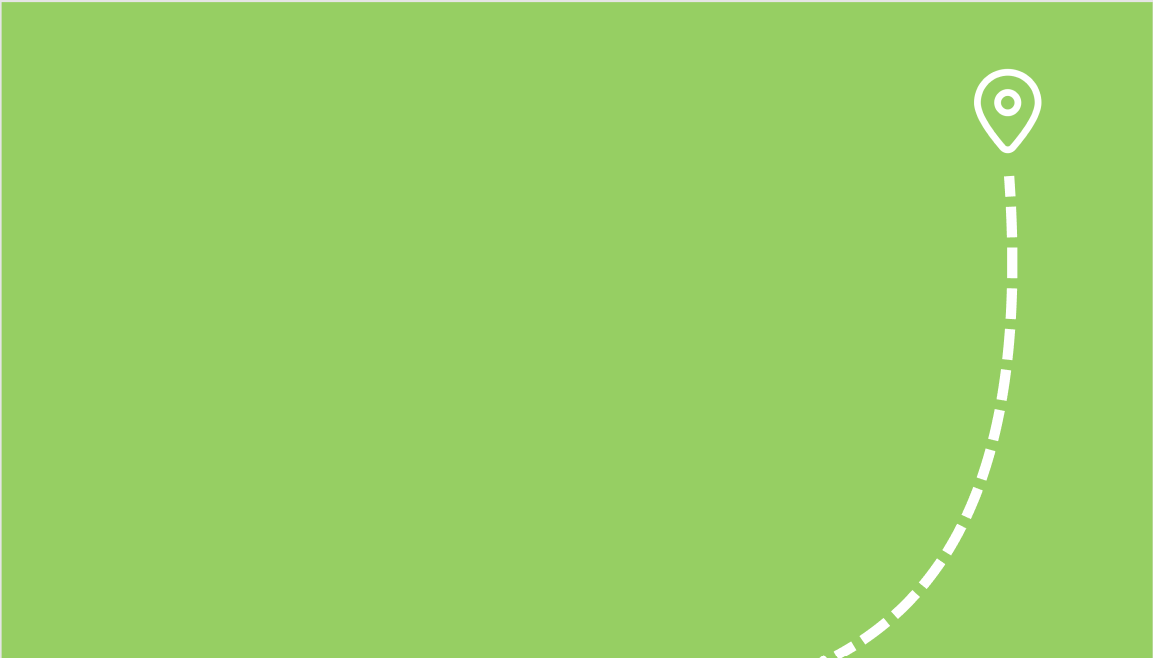
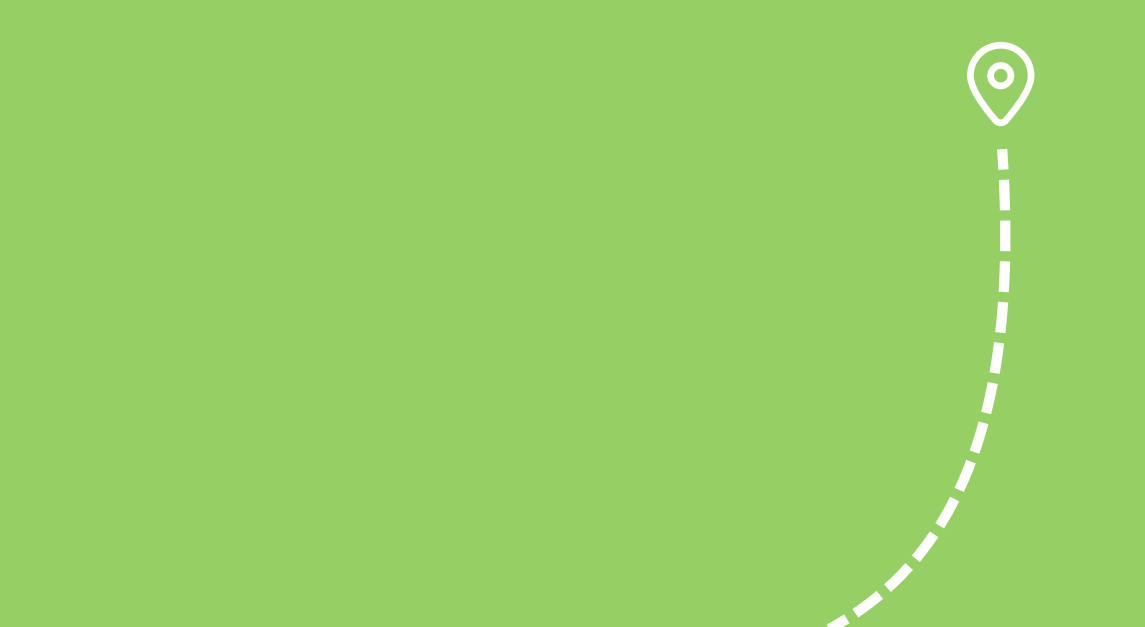
added code

diff --git a/ecomission/calculator/templates/calculator/index.html b/ecomission/calculator/templates/calculator/index.html
@@ -10,17 +10,26 @@
 <body>
     <div class="container">
         <section class="first">
-            <header>
-                <h1>WELCOME TO</h1>
-                <img src = "..\..\static\calculator\images\logo.png" alt = "e(co)mission logo">
-            </header>
-            <p>HOW DO YOU PLAN ON TRAVELLING TODAY?</p>
-            <div class="btns">
-                <button class="btn btn-car">
-                    <img src="..\..\static\calculator\images\car.png"/> 
-                    <img src="..\..\static\calculator\images\plane.png"/> 
-                </button>
+            <div class="col-sm">
+                <div class="row">                
+                    <h1>WELCOME TO</h1>
+                    <p style = "text-align:center"><img src = "..\..\static\calculator\images\logo.png" alt = "e(co)mission logo" class = "logoimage"></p>                
+                </div>
+                <div class="row">
+                <p>HOW DO YOU PLAN ON TRAVELLING TODAY?</p>
+                </div>
+                <div class="row">
+                    <a href = "/ecomission/calculator/templates/calculator/car_details.html">
+                        <p style = "text-align:center;">
+                        <img src="..\..\static\calculator\images\car.png" class = "car"/> 
+                        
+                        </a>
+                        <img src="..\..\static\calculator\images\plane.png"/> 
+                        <p>Flight Calculation Coming Soon!</p>
+                    </p>
+                    </button>
 
+                </div>
             </div>
 
         </section>          
@@ -29,19 +38,45 @@
 </html>
 
 <style>
-    body{
+    @import url('https://fonts.googleapis.com/css2?family=Lato:wght@700&display=swap');
+
+    body, html{
         background: #96CF63;  
+        font-family: Lato;
+        height: 100%
+    }
+    .car{
+        opacity:1;
+    }
+    .car:hover .overlay {
+        opacity: 0.5;
     }
 
-    .bg {
-        background-image: url("..\..\static\calculator\images\1.png");
+    .logoimage{
+        height: 149.5px;
+        width: 650px;
+    }
+
+    .first {
+        background-image: url("/ecomission/calculator/static/calculator/images/1.png");
+        background-repeat: no-repeat;
+        background-size: 110%;
     }
 
     h1{
         color: white;
+        text-align: center;
+        font-size: 450%;
+        margin: 7rem 0 0;
     }
 
     p{
         color: white;
+        text-align: center;
+        font-size: 250%;
+    }
+
+    img{
+        width: 15%;
     }
 </style>

diff --git a/ecomission/calculator/templates/calculator/car_details.html b/ecomission/calculator/templates/calculator/car_details.html
@@ -9,21 +9,29 @@
 </head>
 <body>
     <div class="bg">
+        <ul class="nav navbar-nav navbar-right">
+            <li><a href="/ecomission/calculator/templates/calculator/about.html"></span>About</a></li>
+            <li><img src = "..\..\static\calculator\images\logo.png" alt = "e(co)mission logo">
+            </li>
+        </ul>
         <section class="secondcar">
-            <img src = "..\..\static\calculator\images\logo.png" alt = "e(co)mission logo">
+            <div>
+                <h2>ENTER YOUR POSTAL CODE</h2>
+            </div>
             <div class="form-container">
                 <form action="">
                     <div class="form-left">
-                        <label for="from">From:</label>
-                        <input type="text" name="from" >
-                        <label for="to">To:</label>
-                        <input type="text" name="to" >
-                        <input type="button" value="Next" class="btn btn-info">
+                        <p>
+                            <label for="from">From:</label>
+                            <input type="text" name="from" >
+                       <br>
+                            <label for="to">To:</label>
+                            <input type="text" name="to" >
+                        </p>
+                        <p style = "text-align: center;">
+                        <input type="button" value="Submit" class="btn-lg btn-info"></p>
                     </div>
                 </form>
-            </div>
-            <div>
-                <h2>ENTER YOUR POSTAL CODE</h2>
             </div>
         </section>          
     </div>
@@ -32,16 +40,45 @@
 
 
 <style>
+    nav{
+        margin-right: auto;
+        text-align: right;
+                
+    }
+
+    .btn-lg {
+        color: white;
+    }
+    
     body{
-        background: #96CF63
+        background: #96CF63;
+        background-image: url("/ecomission/calculator/static/calculator/images/2.png");
+        background-repeat: no-repeat;
+        background-size: cover;
     }
 
     label {
-        color: white
+        color: white;
+        text-align: center;
+        font-size: 300%;
+        margin: 15rem 0 0 0;
     }
 
     h2{
-        color: white
+        color: white;
+        text-align: center;
+        font-size: 200%;
+        margin-top: 5rem;
+    }
+
+    img{
+        width: 30%;
+        text-align: right;
+
+    }
+
+    p{
+        margin: 0;
     }
 
 </style>

diff --git a/ecomission/calculator/templates/calculator/results.html b/ecomission/calculator/templates/calculator/results.html
@@ -10,7 +10,6 @@
 <body>
     <div class="bg">
         <section class="secondcar">
-            <img src = "..\..\static\calculator\images\logo.png" alt = "e(co)mission logo">
             <h3>YOUR CO<sub>2</sub> EMISSIONS</h3>
             <div class="info">
                 <!--Need backend input!!! -->
@@ -19,14 +18,20 @@
                 <h4>SOCIAL COST:</h4>
             </div>
 
-        <!--progress bar
-            <div class="progress">
+            <!--{% if em > 4000 %}-->
+            <h3> Poor </h3>
+            <!--{%else%}-->
+            <!--<h3> Good </h3>-->
+
+
+            <div class="progress progress-sm progress center-block" style = "text-align:center;width:50%">
                 <div class="progress-bar progress-bar-striped active" role="progressbar"
-                aria-valuenow="40" aria-valuemin="0" aria-valuemax="100" style="width:40%">
+                aria-valuenow="20" aria-valuemin="0" aria-valuemax="70" style="width:50%">
                     40%
+                    
+
                 </div>
             </div>
-        -->
 
         </section>          
     </div>
@@ -35,14 +40,29 @@
 
 <style>
     body{
-        background: #96CF63
+        background: #96CF63;
+        text-align:center
+    }
+
+    .bg {
+        background-image: url("/ecomission/calculator/static/calculator/images/3.png");
+        background-repeat: no-repeat;
+        background-size: cover;
     }
 
     h3 {
-        color: white
+        color: white;
+        text-align: center;
+        font-size: 300%;
+        margin-bottom: 10rem;
+        margin-top: 5rem;
     }
 
     h4{
-        color: white
+        color: white;
+        text-align: center;
+        font-size: 200%;
     }
+
+
 </style>

diff --git a/ecomission/calculator/templates/calculator/about.html b/ecomission/calculator/templates/calculator/about.html
@@ -12,7 +12,7 @@
         <section class="first">
             <header>
                 <h1>About</h1>
-                <img src = "..\..\static\calculator\images\logo.png" alt = "e(co)mission logo">
+                <p style = "text-align:center;"><img src = "..\..\static\calculator\images\logo.png" alt = "e(co)mission logo" class = "logoimage"></p>                
             </header>
         </section>          
     </div>
@@ -21,14 +21,19 @@
 
 <style>
     body{
-        background: #96CF63
+        background: #96CF63;
     }
+    
 
     h1{
-        color: white
+        color: white;
+        text-align: center;
+        font-size: 350%;
     }
 
     p{
-        color: white
+        color: white;
+        text-align: center;
+        font-size: 250%;
     }
 </style>
